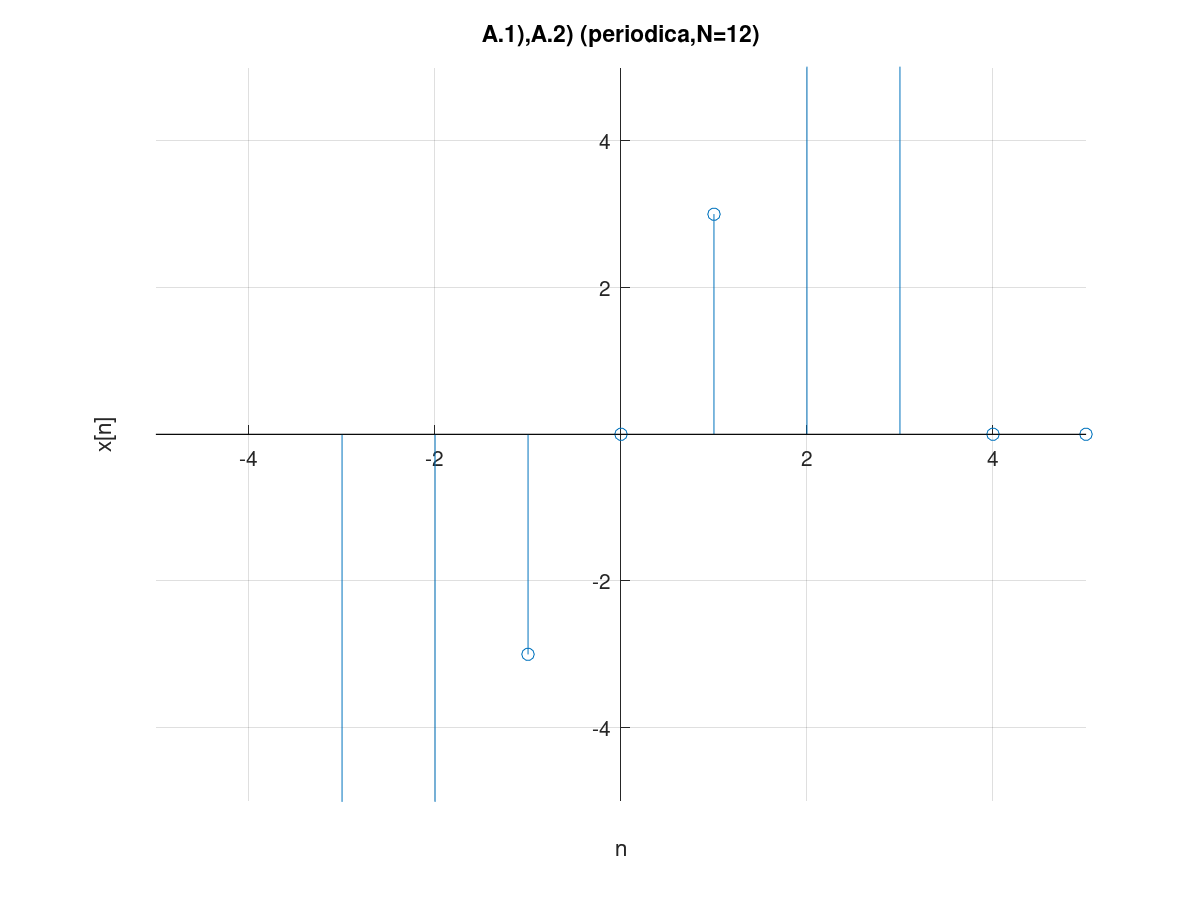
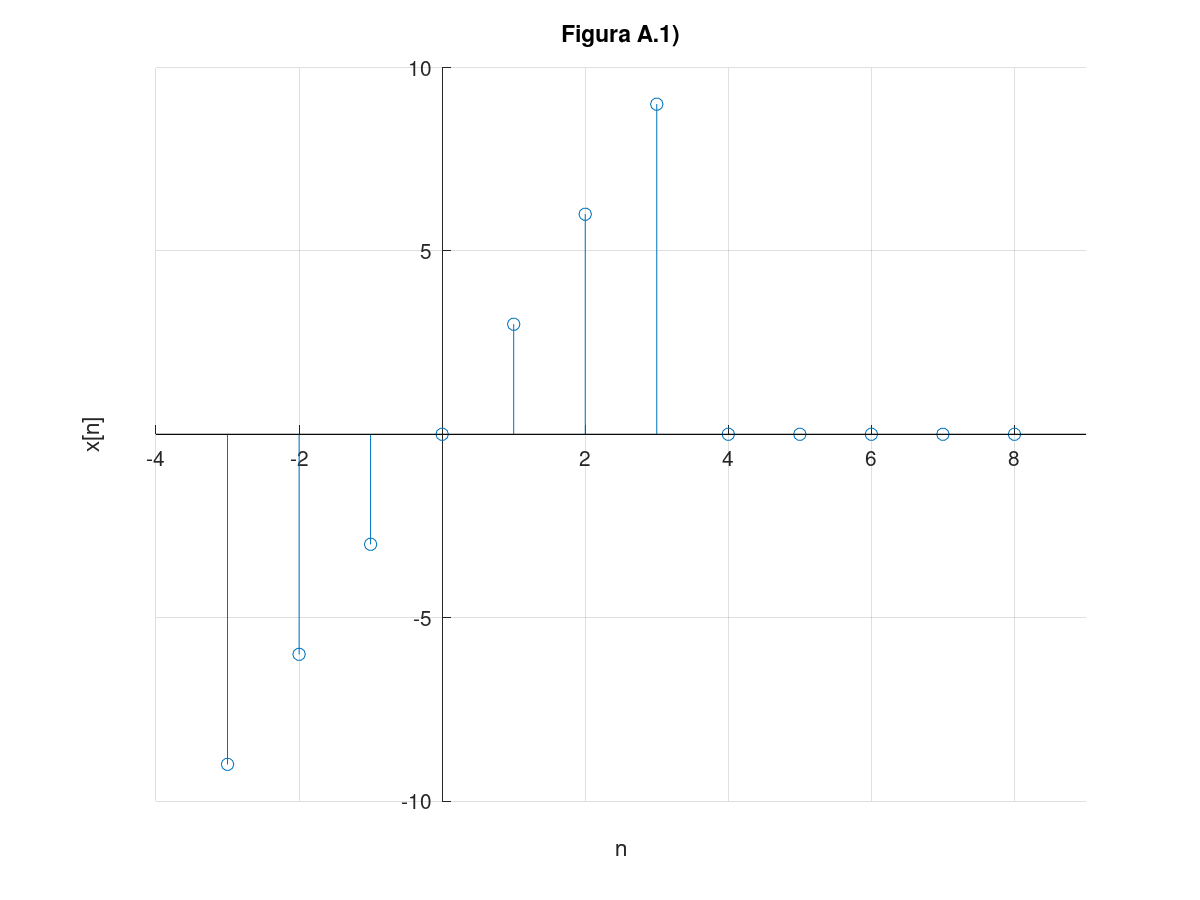
Correcciòn título grafica 1

diff --git a/PR02/html/ASySPrac02JoseRodolfoLopezGalvan.html b/PR02/html/ASySPrac02JoseRodolfoLopezGalvan.html
@@ -426,8 +426,8 @@ Fig. A.1)</p>
 <pre class="oct-code">x1=@(n) 3*n.*(heaviside(n+3)-heaviside(n-4));
 n=-3:8;
 stem(n,x1(n))
-axis([-5 5 -5 5])
-title(<span class="string">'A.1),A.2) (periodica,N=12)'</span>)
+axis([-4 9 -10 10])
+title(<span class="string">'Figura A.1)'</span>)
 xlabel(<span class="string">'n'</span>)
 ylabel(<span class="string">'x[n]'</span>)
 grid on;
@@ -438,11 +438,11 @@ set(gca, <span class="string">"box"</span>, <span class="string">"off"</span>)</
 <p>3.1-2 Find the power of the signals illustrated in
 Fig. A.2)</p>
 
-<pre class="oct-code">x2=@(n) n.*(heaviside(n+3)-heaviside(n-4));
-y = mod(x2(n),12);
-stem(n,y)
-axis([-5 5 -5 5])
-title(<span class="string">'A.1),A.2) (periodica,N=12)'</span>)
+<pre class="oct-code">x2=@(n) repmat(n.*(heaviside(n+3)-heaviside(n-4)),1,2);
+n0=[-3:20];
+stem(n0,x2(n));
+axis([-3 21 -5 5])
+title(<span class="string">'Figura A.2) con periodo N=12'</span>)
 xlabel(<span class="string">'n'</span>)
 ylabel(<span class="string">'x[n]'</span>)
 grid on;
@@ -454,8 +454,8 @@ set(gca, <span class="string">"box"</span>, <span class="string">"off"</span>)</
 3.1-1 Energia</p>
 
 <pre class="oct-code">E=0;
-  <span class="keyword">for</span> n=n
-  sum=x(n)^2;
+  <span class="keyword">for</span> h=-3:8
+  sum=x(h)^2;
   E=E+sum;
   <span class="keyword">end</span>
   fprintf(<span class="string">'La energia es:%d'</span>,E);</pre>
@@ -464,8 +464,8 @@ set(gca, <span class="string">"box"</span>, <span class="string">"off"</span>)</
 	in:
 
   E=0;
-  for n=n
-  sum=x(n)^2;
+  for h=-3:8
+  sum=x(h)^2;
   E=E+sum;
   end
   fprintf('La energia es:%d',E);
@@ -481,7 +481,7 @@ set(gca, <span class="string">"box"</span>, <span class="string">"off"</span>)</
   <span class="keyword">end</span>
   fprintf(<span class="string">'La Potencia es:%d'</span>,P);</pre>
 
-<pre class="oct-code-output">La Potencia es:2.33333</pre>
+<pre class="oct-code-output">La Potencia es:2.33333La Potencia es:2.33333</pre>
 <h2><a id="node7">App para graficar señales discretas</a></h2>
 <p>A continuaciòn se muestra una captura de pantalla de la aplicaciòn diseñada.</p>
 
@@ -869,8 +869,8 @@ axis([-4 4, -1 4])
 x1=@(n) 3*n.*(heaviside(n+3)-heaviside(n-4));
 n=-3:8;
 stem(n,x1(n))
-axis([-5 5 -5 5])
-title('A.1),A.2) (periodica,N=12)')
+axis([-4 9 -10 10])
+title('Figura A.1)')
 xlabel('n')
 ylabel('x[n]')
 grid on;
@@ -882,11 +882,11 @@ set(gca, "box", "off")
 % 3.1-2 Find the power of the signals illustrated in
 % Fig. A.2)
 
-x2=@(n) n.*(heaviside(n+3)-heaviside(n-4));
-y = mod(x2(n),12);
-stem(n,y)
-axis([-5 5 -5 5])
-title('A.1),A.2) (periodica,N=12)')
+x2=@(n) repmat(n.*(heaviside(n+3)-heaviside(n-4)),1,2);
+n0=[-3:20];
+stem(n0,x2(n));
+axis([-3 21 -5 5])
+title('Figura A.2) con periodo N=12')
 xlabel('n')
 ylabel('x[n]')
 grid on;
@@ -898,8 +898,8 @@ set(gca, "box", "off")
 % *Procedimiento*
 % 3.1-1 Energia
   E=0;
-  for n=n
-  sum=x(n)^2;
+  for h=-3:8
+  sum=x(h)^2;
   E=E+sum;
   end
   fprintf('La energia es:%d',E);

diff --git a/PR02/ASySPrac02JoseRodolfoLopezGalvan.m b/PR02/ASySPrac02JoseRodolfoLopezGalvan.m
@@ -373,8 +373,8 @@ axis([-4 4, -1 4])
 x1=@(n) 3*n.*(heaviside(n+3)-heaviside(n-4));
 n=-3:8;
 stem(n,x1(n))
-axis([-5 5 -5 5])
-title('A.1),A.2) (periodica,N=12)')
+axis([-4 9 -10 10])
+title('Figura A.1)')
 xlabel('n')
 ylabel('x[n]')
 grid on;
@@ -386,11 +386,11 @@ set(gca, "box", "off")
 % 3.1-2 Find the power of the signals illustrated in
 % Fig. A.2)
 
-x2=@(n) n.*(heaviside(n+3)-heaviside(n-4));
-y = mod(x2(n),12);
-stem(n,y)
-axis([-5 5 -5 5])
-title('A.1),A.2) (periodica,N=12)')
+x2=@(n) repmat(n.*(heaviside(n+3)-heaviside(n-4)),1,2);
+n0=[-3:20];
+stem(n0,x2(n));
+axis([-3 21 -5 5])
+title('Figura A.2) con periodo N=12')
 xlabel('n')
 ylabel('x[n]')
 grid on;
@@ -402,8 +402,8 @@ set(gca, "box", "off")
 % *Procedimiento*
 % 3.1-1 Energia
   E=0;
-  for n=n
-  sum=x(n)^2;
+  for h=-3:8
+  sum=x(h)^2;
   E=E+sum;
   end
   fprintf('La energia es:%d',E);
